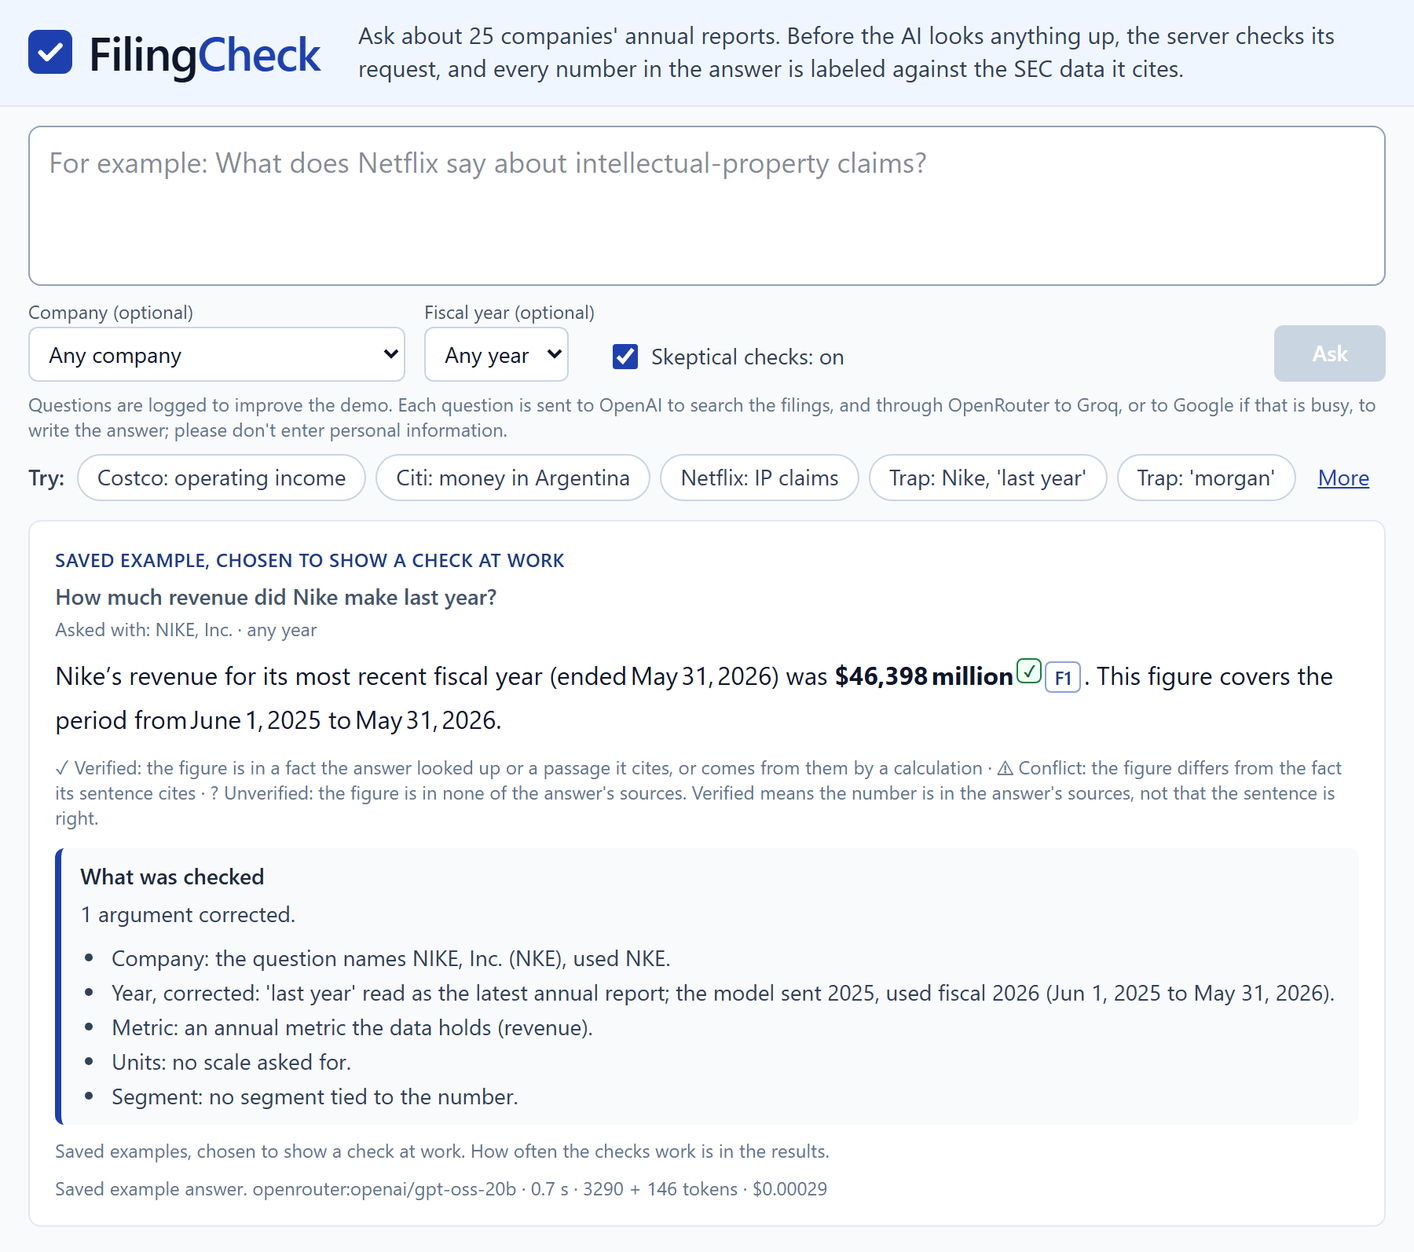
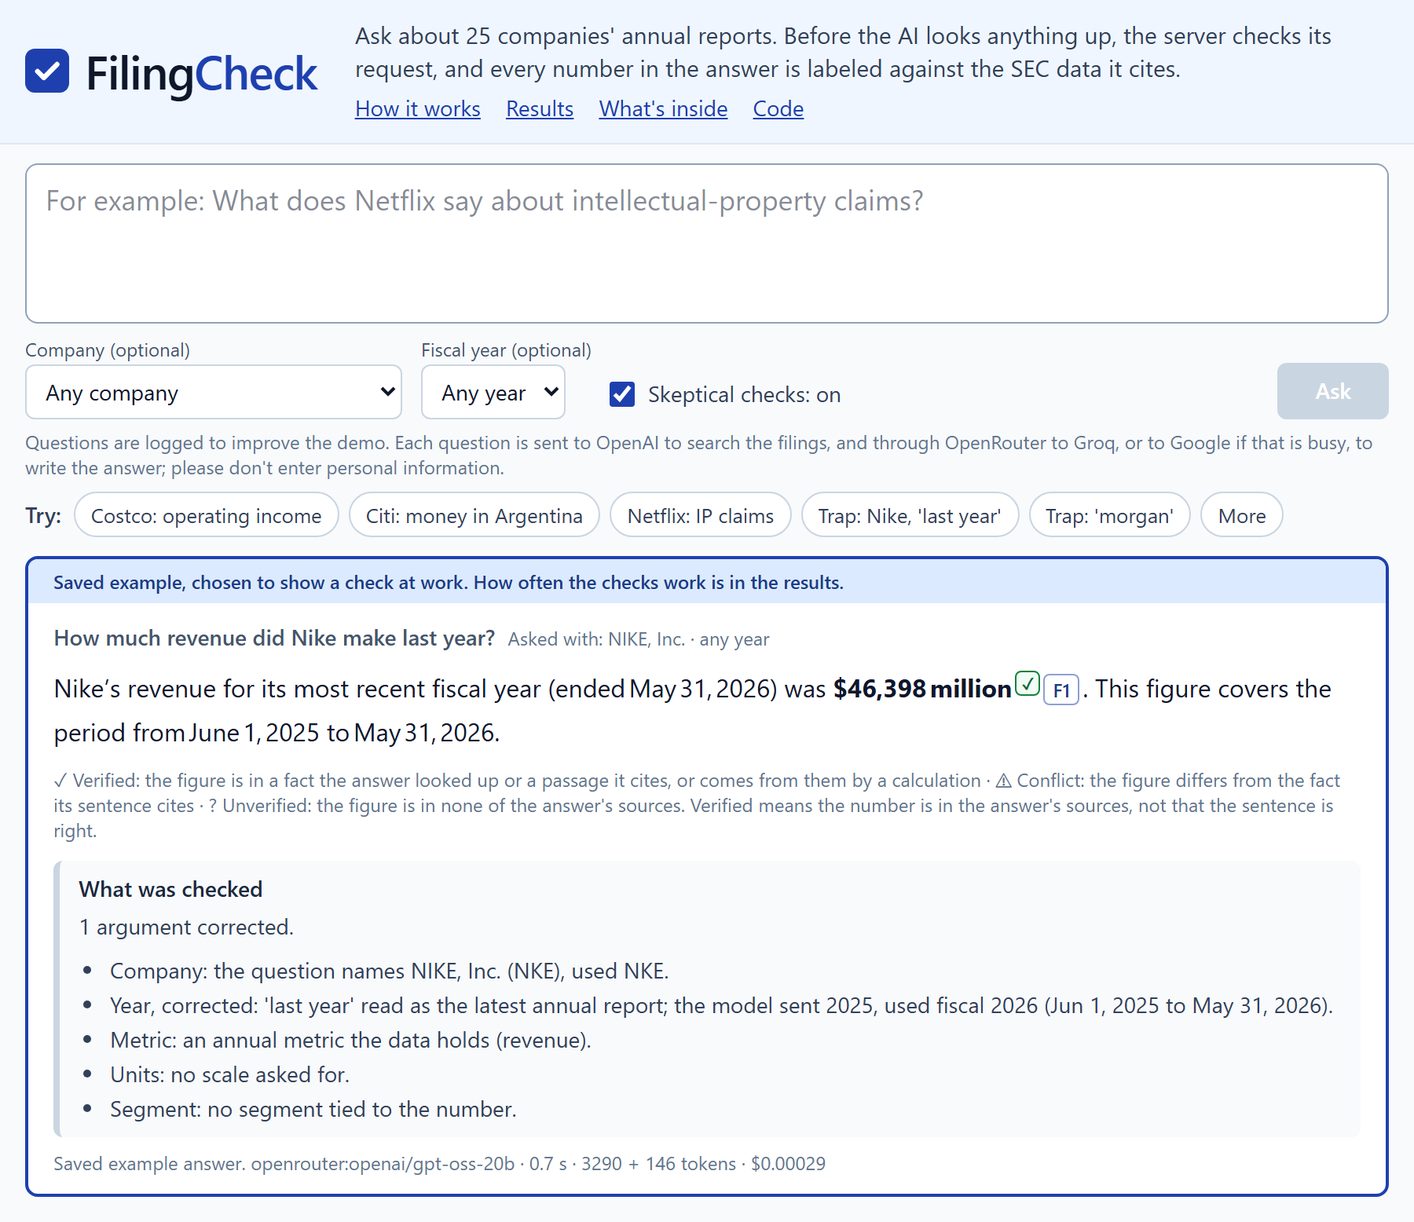
The page, review changes: the answer card alone has an accent border and a strip that says once what it holds; More is a chip; Enter asks; jump links in the header band; the README's picture taken again

Changed region(s): [[0.0, 0.2468, 0.9956, 0.9871], [0.0, 0.0, 0.9333, 0.1851]]

diff --git a/web/app/page.tsx b/web/app/page.tsx
@@ -32,11 +32,13 @@ import {
 } from "@/lib/display";
 import {
   answerInView,
+  cardLine,
   CHIPS,
   type Chip,
+  enterAsks,
   FIRST_EXAMPLE,
-  FIRST_EXAMPLE_LINE,
   INSIDE,
+  JUMP_LINKS,
   MORE_CHIPS,
   PRIVACY_NOTE,
   resultTiles,
@@ -48,12 +50,7 @@ import {
 } from "@/lib/glance";
 import { reviewNote } from "@/lib/notes";
 import { type Results, resultLines } from "@/lib/results";
-import {
-  type Example,
-  TRAP_NOTE,
-  type TrapExample,
-  trapExamples,
-} from "@/lib/traps";
+import { type Example, type TrapExample, trapExamples } from "@/lib/traps";
 
 const EXAMPLES = examplesData as Example[];
 const TRAPS = trapExamples(trapData as TrapExample[], EXAMPLES);
@@ -78,7 +75,10 @@ const BOX = "rounded-md border border-slate-200 bg-white px-4 py-3 text-sm text-
 const TILE = "rounded-lg border border-slate-200 bg-white p-4";
 const SECTION_TITLE = "text-lg font-semibold text-slate-900";
 const CHIP =
-  "rounded-full border border-slate-300 bg-white px-3 py-1 text-sm text-slate-700 hover:border-accent hover:text-accent-strong";
+  "rounded-full border border-slate-300 bg-white px-2.5 py-1 text-[13px] text-slate-700 hover:border-accent hover:text-accent-strong";
+// The answer card is the only box with an accent border, and its strip says what it holds.
+const CARD = "overflow-hidden rounded-lg border-2 border-accent bg-white";
+const STRIP = "bg-accent-soft px-4 py-1.5 text-xs font-semibold text-accent-strong";
 
 /** A finished tool call's status in words. */
 function statusWords(status: string): string {
@@ -101,15 +101,13 @@ type Shown =
       /** For a clicked example: the filters it was asked with, and any review note. */
       asked?: string;
       note?: string | null;
-      /** The line above the saved example shown on first load. */
-      intro?: string;
-      /** A saved trap example: its card carries the trap row's note. */
+      /** A saved trap example: its strip says it was chosen. */
       trap?: boolean;
     }
   | { kind: "error"; message: string };
 
 /** A saved example's answer as the page shows it, with no request made. */
-function exampleShown(example: Example, intro?: string): Shown {
+function exampleShown(example: Example): Shown {
   return {
     kind: "answer",
     question: example.question,
@@ -119,12 +117,11 @@ function exampleShown(example: Example, intro?: string): Shown {
     asked: askedWith(example.company_name, example.ticker, example.fiscal_year),
     note: reviewNote(example.question),
     trap: TRAP_QUESTIONS.has(example.question),
-    ...(intro ? { intro } : {}),
   };
 }
 
 const FIRST = SAVED.get(FIRST_EXAMPLE);
-const FIRST_SHOWN: Shown = FIRST ? exampleShown(FIRST, FIRST_EXAMPLE_LINE) : { kind: "none" };
+const FIRST_SHOWN: Shown = FIRST ? exampleShown(FIRST) : { kind: "none" };
 
 /** What the data holds and what it cannot answer: closed until opened, on every screen. */
 function WhatYouCanAsk({ companies }: { companies: Company[] }) {
@@ -174,7 +171,7 @@ function WhatYouCanAsk({ companies }: { companies: Company[] }) {
 /** Three steps in a row (stacked on phones); the earlier explainer, unchanged, in a closed panel. */
 function HowItWorks() {
   return (
-    <section className="mt-12" aria-labelledby="how-title">
+    <section id="how-it-works" className="mt-12 scroll-mt-4" aria-labelledby="how-title">
       <h2 id="how-title" className={SECTION_TITLE}>
         How it works
       </h2>
@@ -206,7 +203,7 @@ function HowItWorks() {
  * in a closed panel. Every number is from results.json or checked against the report. */
 function ResultsSection() {
   return (
-    <section className="mt-12" aria-labelledby="results-title">
+    <section id="results" className="mt-12 scroll-mt-4" aria-labelledby="results-title">
       <h2 id="results-title" className={SECTION_TITLE}>
         What the measurement found
       </h2>
@@ -244,7 +241,7 @@ function ResultsSection() {
 /** One tile per part of the system: what it is, with no claim about its effect. */
 function Inside() {
   return (
-    <section className="mt-12" aria-labelledby="inside-title">
+    <section id="whats-inside" className="mt-12 scroll-mt-4" aria-labelledby="inside-title">
       <h2 id="inside-title" className={SECTION_TITLE}>
         What&apos;s inside
       </h2>
@@ -361,6 +358,7 @@ export default function Home() {
   }, [reveal]);
 
   const years = companies.find((c) => c.ticker === ticker)?.fiscal_years ?? [];
+  const canAsk = !busy && question.trim() !== "" && backend === "ok";
 
   async function submit(event: FormEvent) {
     event.preventDefault();
@@ -391,6 +389,7 @@ export default function Home() {
         answer: result.answer,
         source: result.cached ? "after-limit" : "new",
         notice: cachedNotice(result),
+        trap: Boolean(result.cached && result.example && TRAP_QUESTIONS.has(result.example.question)),
       });
     } catch (error) {
       const message =
@@ -431,12 +430,21 @@ export default function Home() {
   return (
     <>
       <header className="border-b border-slate-200 bg-band">
-        <div className="mx-auto flex max-w-4xl flex-col gap-1.5 px-4 py-3 sm:flex-row sm:items-center sm:gap-6">
+        <div className="mx-auto flex max-w-5xl flex-col gap-1.5 px-4 py-3 sm:flex-row sm:items-center sm:gap-6">
           <Logo />
-          <p className="text-sm text-slate-700 sm:text-[15px]">{SENTENCE}</p>
+          <div>
+            <p className="text-sm text-slate-700 sm:text-[15px]">{SENTENCE}</p>
+            <nav aria-label="On this page" className="mt-1 flex flex-wrap gap-x-4 text-sm">
+              {JUMP_LINKS.map((link) => (
+                <a key={link.href} href={link.href} className={LINK}>
+                  {link.label}
+                </a>
+              ))}
+            </nav>
+          </div>
         </div>
       </header>
-      <main className="mx-auto max-w-4xl px-4 pb-8 pt-3">
+      <main className="mx-auto max-w-5xl px-4 pb-8 pt-3">
         {backend === "waking" && (
           <p className="mb-3 rounded-md bg-slate-100 px-3 py-2 text-sm text-slate-700">
             The backend is waking up (up to a minute). The saved examples below
@@ -464,6 +472,11 @@ export default function Home() {
             ref={box}
             value={question}
             onChange={(e) => setQuestion(e.target.value)}
+            onKeyDown={(e) => {
+              if (!enterAsks(e.key, e.shiftKey, e.nativeEvent.isComposing)) return;
+              e.preventDefault();
+              if (canAsk) e.currentTarget.form?.requestSubmit();
+            }}
             maxLength={MAX_QUESTION}
             rows={3}
             placeholder="For example: What does Netflix say about intellectual-property claims?"
@@ -524,7 +537,7 @@ export default function Home() {
             </label>
             <button
               type="submit"
-              disabled={busy || !question.trim() || backend !== "ok"}
+              disabled={!canAsk}
               className="ml-auto rounded-md bg-accent px-6 py-2 text-sm font-medium text-white hover:bg-accent-strong disabled:cursor-not-allowed disabled:bg-slate-300"
             >
               {busy ? "Answering…" : "Ask"}
@@ -541,7 +554,7 @@ export default function Home() {
             onClick={() => setMore((open) => !open)}
             aria-expanded={more}
             aria-controls="more-examples"
-            className="rounded-full px-2 py-1 text-sm text-accent underline hover:text-accent-strong"
+            className={CHIP}
           >
             {more ? "Fewer" : "More"}
           </button>
@@ -552,66 +565,66 @@ export default function Home() {
 
         <section ref={answerArea} className="mt-3 scroll-mt-4" aria-live="polite">
           {shown.kind === "streaming" && (
-            <div className="rounded-lg border border-slate-200 bg-white p-4">
-              {shown.progress.restarted && (
-                <p className="mb-2 text-sm text-slate-500">
-                  {shown.progress.restarted}
+            <div className={CARD}>
+              <p className={STRIP}>{cardLine("working", false)}</p>
+              <div className="px-4 py-3">
+                {shown.progress.restarted && (
+                  <p className="mb-2 text-sm text-slate-500">
+                    {shown.progress.restarted}
+                  </p>
+                )}
+                {shown.progress.steps.length > 0 && (
+                  <ul className="mb-3 space-y-1 text-sm text-slate-600">
+                    {shown.progress.steps.map((step, i) => (
+                      <li key={i}>
+                        {step.label}…{" "}
+                        <span className="text-slate-400">
+                          {statusWords(step.status)}
+                        </span>
+                      </li>
+                    ))}
+                  </ul>
+                )}
+                <p className="whitespace-pre-line leading-7 text-slate-800">
+                  {shown.text || "Working on it…"}
                 </p>
-              )}
-              {shown.progress.steps.length > 0 && (
-                <ul className="mb-3 space-y-1 text-sm text-slate-600">
-                  {shown.progress.steps.map((step, i) => (
-                    <li key={i}>
-                      {step.label}…{" "}
-                      <span className="text-slate-400">
-                        {statusWords(step.status)}
-                      </span>
-                    </li>
-                  ))}
-                </ul>
-              )}
-              <p className="whitespace-pre-line leading-7 text-slate-800">
-                {shown.text || "Working on it…"}
-              </p>
+              </div>
             </div>
           )}
           {shown.kind === "answer" && (
-            <div className="rounded-lg border border-slate-200 bg-white p-4">
-              {shown.intro && (
-                <p className="mb-1.5 text-xs font-medium uppercase tracking-wide text-accent-strong">
-                  {shown.intro}
-                </p>
-              )}
-              {shown.notice ? (
-                <p
-                  role="status"
-                  className="mb-3 rounded-md bg-amber-50 px-3 py-2 text-sm text-amber-900"
-                >
-                  {shown.notice}
-                </p>
-              ) : (
-                <div className="mb-2">
-                  <p className="text-sm font-medium text-slate-600">
-                    {shown.question}
+            <div className={CARD}>
+              <p className={STRIP}>
+                {cardLine(shown.source === "new" ? "new" : shown.source, Boolean(shown.trap))}
+              </p>
+              <div className="px-4 py-3">
+                {shown.notice ? (
+                  <p
+                    role="status"
+                    className="mb-3 rounded-md bg-amber-50 px-3 py-2 text-sm text-amber-900"
+                  >
+                    {shown.notice}
                   </p>
-                  {shown.asked && (
-                    <p className="mt-0.5 text-xs text-slate-500">{shown.asked}</p>
-                  )}
-                </div>
-              )}
-              {/* A new answer starts with every citation closed. */}
-              <AnswerText
-                key={`${shown.question}\n${shown.answer.text}`}
-                answer={shown.answer}
-              />
-              {shown.note && (
-                <p className="mt-3 rounded-md border border-amber-200 bg-amber-50 px-3 py-2 text-sm text-amber-900">
-                  {shown.note}
-                </p>
-              )}
-              <ChecksPanel answer={shown.answer} />
-              {shown.trap && <p className="mt-2 text-xs text-slate-500">{TRAP_NOTE}</p>}
-              <CostLine answer={shown.answer} source={shown.source} />
+                ) : (
+                  <p className="mb-2 text-sm font-medium text-slate-600">
+                    {shown.question}
+                    {shown.asked && (
+                      <span className="ml-2 inline-block text-xs font-normal text-slate-500">{shown.asked}</span>
+                    )}
+                  </p>
+                )}
+                {/* A new answer starts with every citation closed. */}
+                <AnswerText
+                  key={`${shown.question}\n${shown.answer.text}`}
+                  answer={shown.answer}
+                />
+                {shown.note && (
+                  <p className="mt-3 rounded-md border border-amber-200 bg-amber-50 px-3 py-2 text-sm text-amber-900">
+                    {shown.note}
+                  </p>
+                )}
+                <ChecksPanel answer={shown.answer} />
+                <CostLine answer={shown.answer} source={shown.source} />
+              </div>
             </div>
           )}
           {shown.kind === "error" && (

diff --git a/web/lib/glance.ts b/web/lib/glance.ts
@@ -3,6 +3,7 @@
 // tiles are matched with their source files by glance.test.ts. No number here is new.
 
 import type { Results } from "./results.ts";
+import { TRAP_NOTE } from "./traps.ts";
 
 export const SENTENCE =
   "Ask about 25 companies' annual reports. Before the AI looks anything up, the server checks " +
@@ -59,9 +60,32 @@ export function scrollBehavior(reducedMotion: boolean): ScrollBehavior {
   return reducedMotion ? "auto" : "smooth";
 }
 
-/** The saved example shown on first load, and the line above it. */
+/** The saved example shown on first load (a trap example, so its card says it was chosen). */
 export const FIRST_EXAMPLE = "How much revenue did Nike make last year?";
-export const FIRST_EXAMPLE_LINE = "Saved example, chosen to show a check at work";
+
+/** What the answer card is, said once in its strip: the model at work, a live answer, or a saved
+ * example (a trap example says it was chosen, and where to find how often the checks work). */
+export function cardLine(
+  state: "working" | "new" | "example" | "after-limit",
+  trap: boolean,
+): string {
+  if (state === "working") return "Answering…";
+  if (state === "new") return "Answer";
+  return trap ? TRAP_NOTE : "Saved example";
+}
+
+/** Enter asks the question; Shift+Enter starts a new line, and nothing happens mid-composition. */
+export function enterAsks(key: string, shift: boolean, composing: boolean): boolean {
+  return key === "Enter" && !shift && !composing;
+}
+
+/** The header's jump links: three sections lower on the page, then the code. */
+export const JUMP_LINKS = [
+  { label: "How it works", href: "#how-it-works" },
+  { label: "Results", href: "#results" },
+  { label: "What's inside", href: "#whats-inside" },
+  { label: "Code", href: "https://github.com/nazrulhuda/filingcheck" },
+];
 
 export const STEPS = [
   "You ask a question",

diff --git a/web/lib/traps.ts b/web/lib/traps.ts
@@ -20,8 +20,9 @@ const SAVED: Record<string, { question: string; trap: string }> = {
   "fact-002": { question: "How much revenue did Nike make last year?", trap: "A relative year" },
 };
 
+/** The line in a saved trap example's card strip. */
 export const TRAP_NOTE =
-  "Saved examples, chosen to show a check at work. How often the checks work is in the results.";
+  "Saved example, chosen to show a check at work. How often the checks work is in the results.";
 
 /** The picked trap answers and the saved examples shown as traps, in the plan's order. */
 export function trapExamples(picked: TrapExample[], examples: Example[]): TrapExample[] {

diff --git a/web/components/AnswerView.tsx b/web/components/AnswerView.tsx
@@ -244,7 +244,7 @@ export function ChecksPanel({ answer }: { answer: Answer }) {
   if (answer.mode !== "agent") return null;
   const { summary, lookups } = checkReport(answer);
   return (
-    <section className="mt-3 rounded-md border-l-4 border-accent bg-slate-50 px-3 py-2 text-sm text-slate-700">
+    <section className="mt-3 rounded-md border-l-4 border-slate-300 bg-slate-50 px-3 py-2 text-sm text-slate-700">
       <h3 className="font-medium text-slate-800">What was checked</h3>
       <p className="mt-1">{summary}</p>
       {lookups.map((lines, i) => (

diff --git a/docs/decisions.md b/docs/decisions.md
@@ -211,3 +211,4 @@ One row per real choice. Newest at the bottom.
 | 2026-11-16 | **The page's presentation after `v1.0`** (the page only; no feature, no pinned path, no number changed). Top, in this order: a text logo (an SVG check mark in the accent, then the name; the same mark is the favicon, `web/app/icon.svg`, and the link preview, `web/app/opengraph-image.tsx`, 1200×630, drawn at build time with no outside image), one sentence, the question box, a hint above the Company and Fiscal year lists, "What you can ask" (now closed on every screen size), and the examples and the two trap examples as compact buttons. The saved Nike answer is shown on first load with its labels and its "What was checked" panel, under "Saved example, chosen to show a check at work"; no request is made, and clicking another example or asking replaces it. Below: three steps (the earlier explainer, unchanged, in a closed panel), the label key, the results as four tiles in the README's order (the README's three lines, unchanged, in a closed "Details" panel), six tiles on what each part of the system is, and a footer naming the builder. Colours: one accent (`#1e40af`) for the logo, buttons, links and citation chips; Verified green, Conflict red, Unverified amber with dark text, each with its symbol kept; the fact chips move from green to the accent, so green means Verified only. The third result tile is the control set's false repairs (0 of 150 runs, its pre-registered purpose), with its accuracy (90.0%) in small text and the note that the fiscal-year check on searches was built after a dry run on those questions. | The earlier blue, grey and orange labels; the control accuracy rise as the tile's figure; the results above the question box | A first-time visitor sees the question box and the start of a check at work on the first 1280×800 screen (the saved example starts 681 px down); the control set was seen during development, so its accuracy is not held-out evidence | `web/lib/glance.test.ts` (each figure against its source file: the manifest, the data and facts reports, the section snapshot, the tool registry, the final report and its committed rows, the Nov 12 decision); `web/lib/theme.test.ts` (symbols 5.9:1 or more on their badges, borders 3.2:1 or more on white, the accent 8.7:1); `make verify-measured` |
 | 2026-11-17 | **The README's top after `v1.0`** (additions only; the results keep their wording and order). Under the title and description: a screenshot of the deployed page's saved Nike card with its "What was checked" panel (`docs/page_saved_example.png`, taken from https://filingcheck.vercel.app after the page merge, 1280 wide at scale 2), then the live demo line and CI badge, an HTML comment marking where the video link goes, the stack in one line of plain text, "What this project shows" (three lines, no effect claim) and "By the numbers" (the page's six tiles word for word, then coverage, the figures not compared, the CI gate and `make report`). Known limits gains one line: the control questions were used during development, so the rise in control accuracy is not held-out evidence. The gate's count is corrected from 21 to 24 in the Makefile comment, the CI step name, `eval/README.md`, and the headers of `tests/eval_gate/scenarios.yaml` and `test_gate.py` (none is pinned); the Nov 9 decision row and `docs/week4_summary.md` keep 21, which was true when they were written (scenarios 022 to 024 came on Nov 12). | The whole first screen as the screenshot; the new blocks below the worked example | The card shows the answer, its label and the check's correction at a readable size; the plan puts the additions above the result | `tests/test_readme_top.py` (each figure against its source file, the order, the gate count wherever it is stated); `web/lib/glance.test.ts` (the first six rows are the page's tiles); `make check-links`; `make verify-measured` |
 | 2026-11-17 | **The question next to its answer** (the page only; no feature, no pinned path, no number changed). The answer card now sits directly under the question: a slim header band (the logo beside the one sentence on wide screens, on a soft tint, `--color-band`), then the question box (three rows, 18 px text, growing to six), one options row (the two lists, the checks switch, Ask at the right end; the hint line above the lists removed, the switch's hint kept as its tooltip and as screen-reader text), the privacy note without its first sentence (which stays in "What you can ask"), one row of short "Try:" chips (three examples, two traps, and "More" for the other three; each chip's title and accessible name is its full question), then the answer. A trap example's card carries the trap row's note. When an answer starts or a chip is clicked, the page scrolls to the card only if its top is off the screen, without animation for reduced motion. Below the answer, unchanged: "What you can ask" (closed), "How it works" (each step with a small accent icon), the label key, the results, "What's inside" (each tile with an icon), the footer. The README's picture is the new first screen in a 900 px window. | Keep the options and examples between the box and the answer (the box sat 446 px above the answer); hide the privacy note behind a link | A visitor types at the top and reads the reply right under it; measured at 1280×800 the card starts 149 px below the box and ends at 781 px (the whole saved example with its check panel on the first screen), at 390 px 297 px below the box | `web/lib/glance.test.ts` (the chips, one per saved question, the traps as traps; the privacy note; the scroll rule); `web/lib/theme.test.ts` (the band: the sentence 9.5:1, the logo's accent 8.0:1, the name 16.4:1); `tests/test_readme_top.py`; `make verify-measured` |
+| 2026-11-17 | **The A2 review's changes.** The answer card is the only box with an accent border (2 px), with a strip in the accent's light shade that says what it holds, once: "Answering…" while the model works, "Answer" for a live answer, "Saved example" for a saved one, and for a saved trap example "Saved example, chosen to show a check at work. How often the checks work is in the results." (the note at the bottom of the card is gone, and the "What was checked" panel's bar is grey now). The three label definitions and the caveat stay under the answer text. "More" is a chip like the others; the page column is 1024 px wide (was 896) and the chips are 13 px, so the row stays on one line with wider fonts. Enter asks (under the Ask button's own condition); Shift+Enter, or Enter while a character is being composed, does not. The header band has four jump links under the sentence: "How it works", "Results", "What's inside" and "Code". The README's picture is taken again. | Keep the 896 px column and shrink the chips to 12 px; put the jump links at the band's right | At 1280×800 in Edge the saved card ends at 746 px (with Inter loaded, 744; Arial 743; Verdana 780), the chips stay on one row in each, and the card starts 148 px below the box (296 px at 390 px) | `web/lib/glance.test.ts` (the card line, Enter, the jump links); `web/lib/theme.test.ts` (one accent-bordered box; the strip's text 8.5:1); `web/lib/traps.test.ts`; `make verify-measured` |
